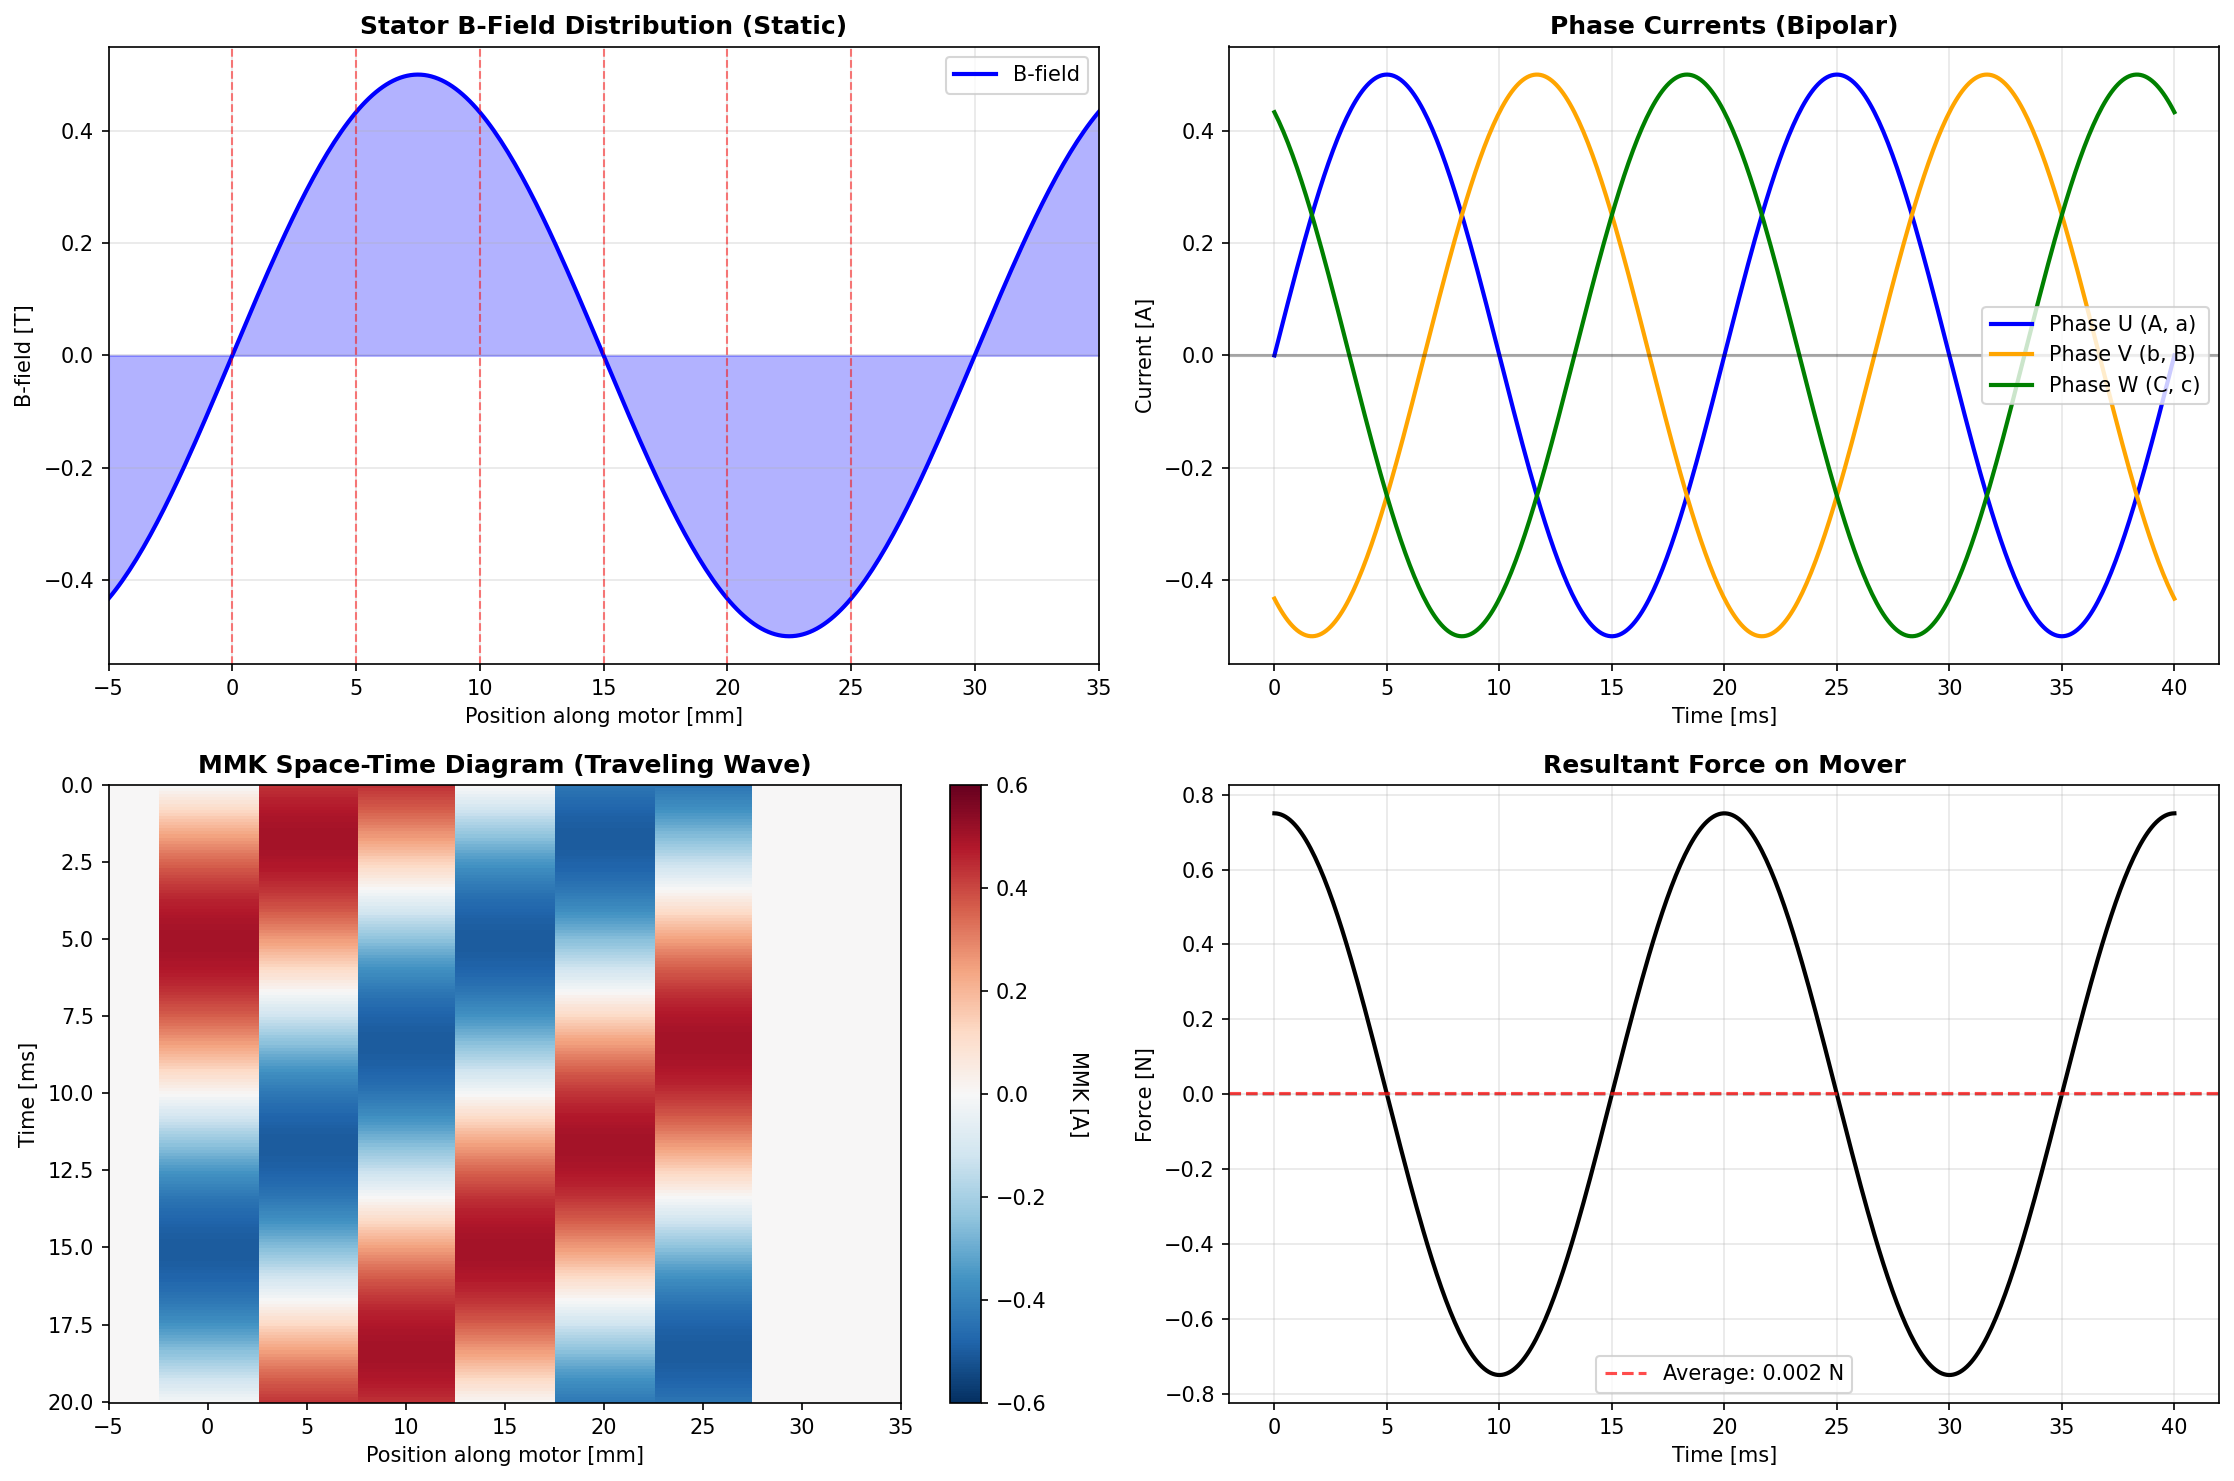
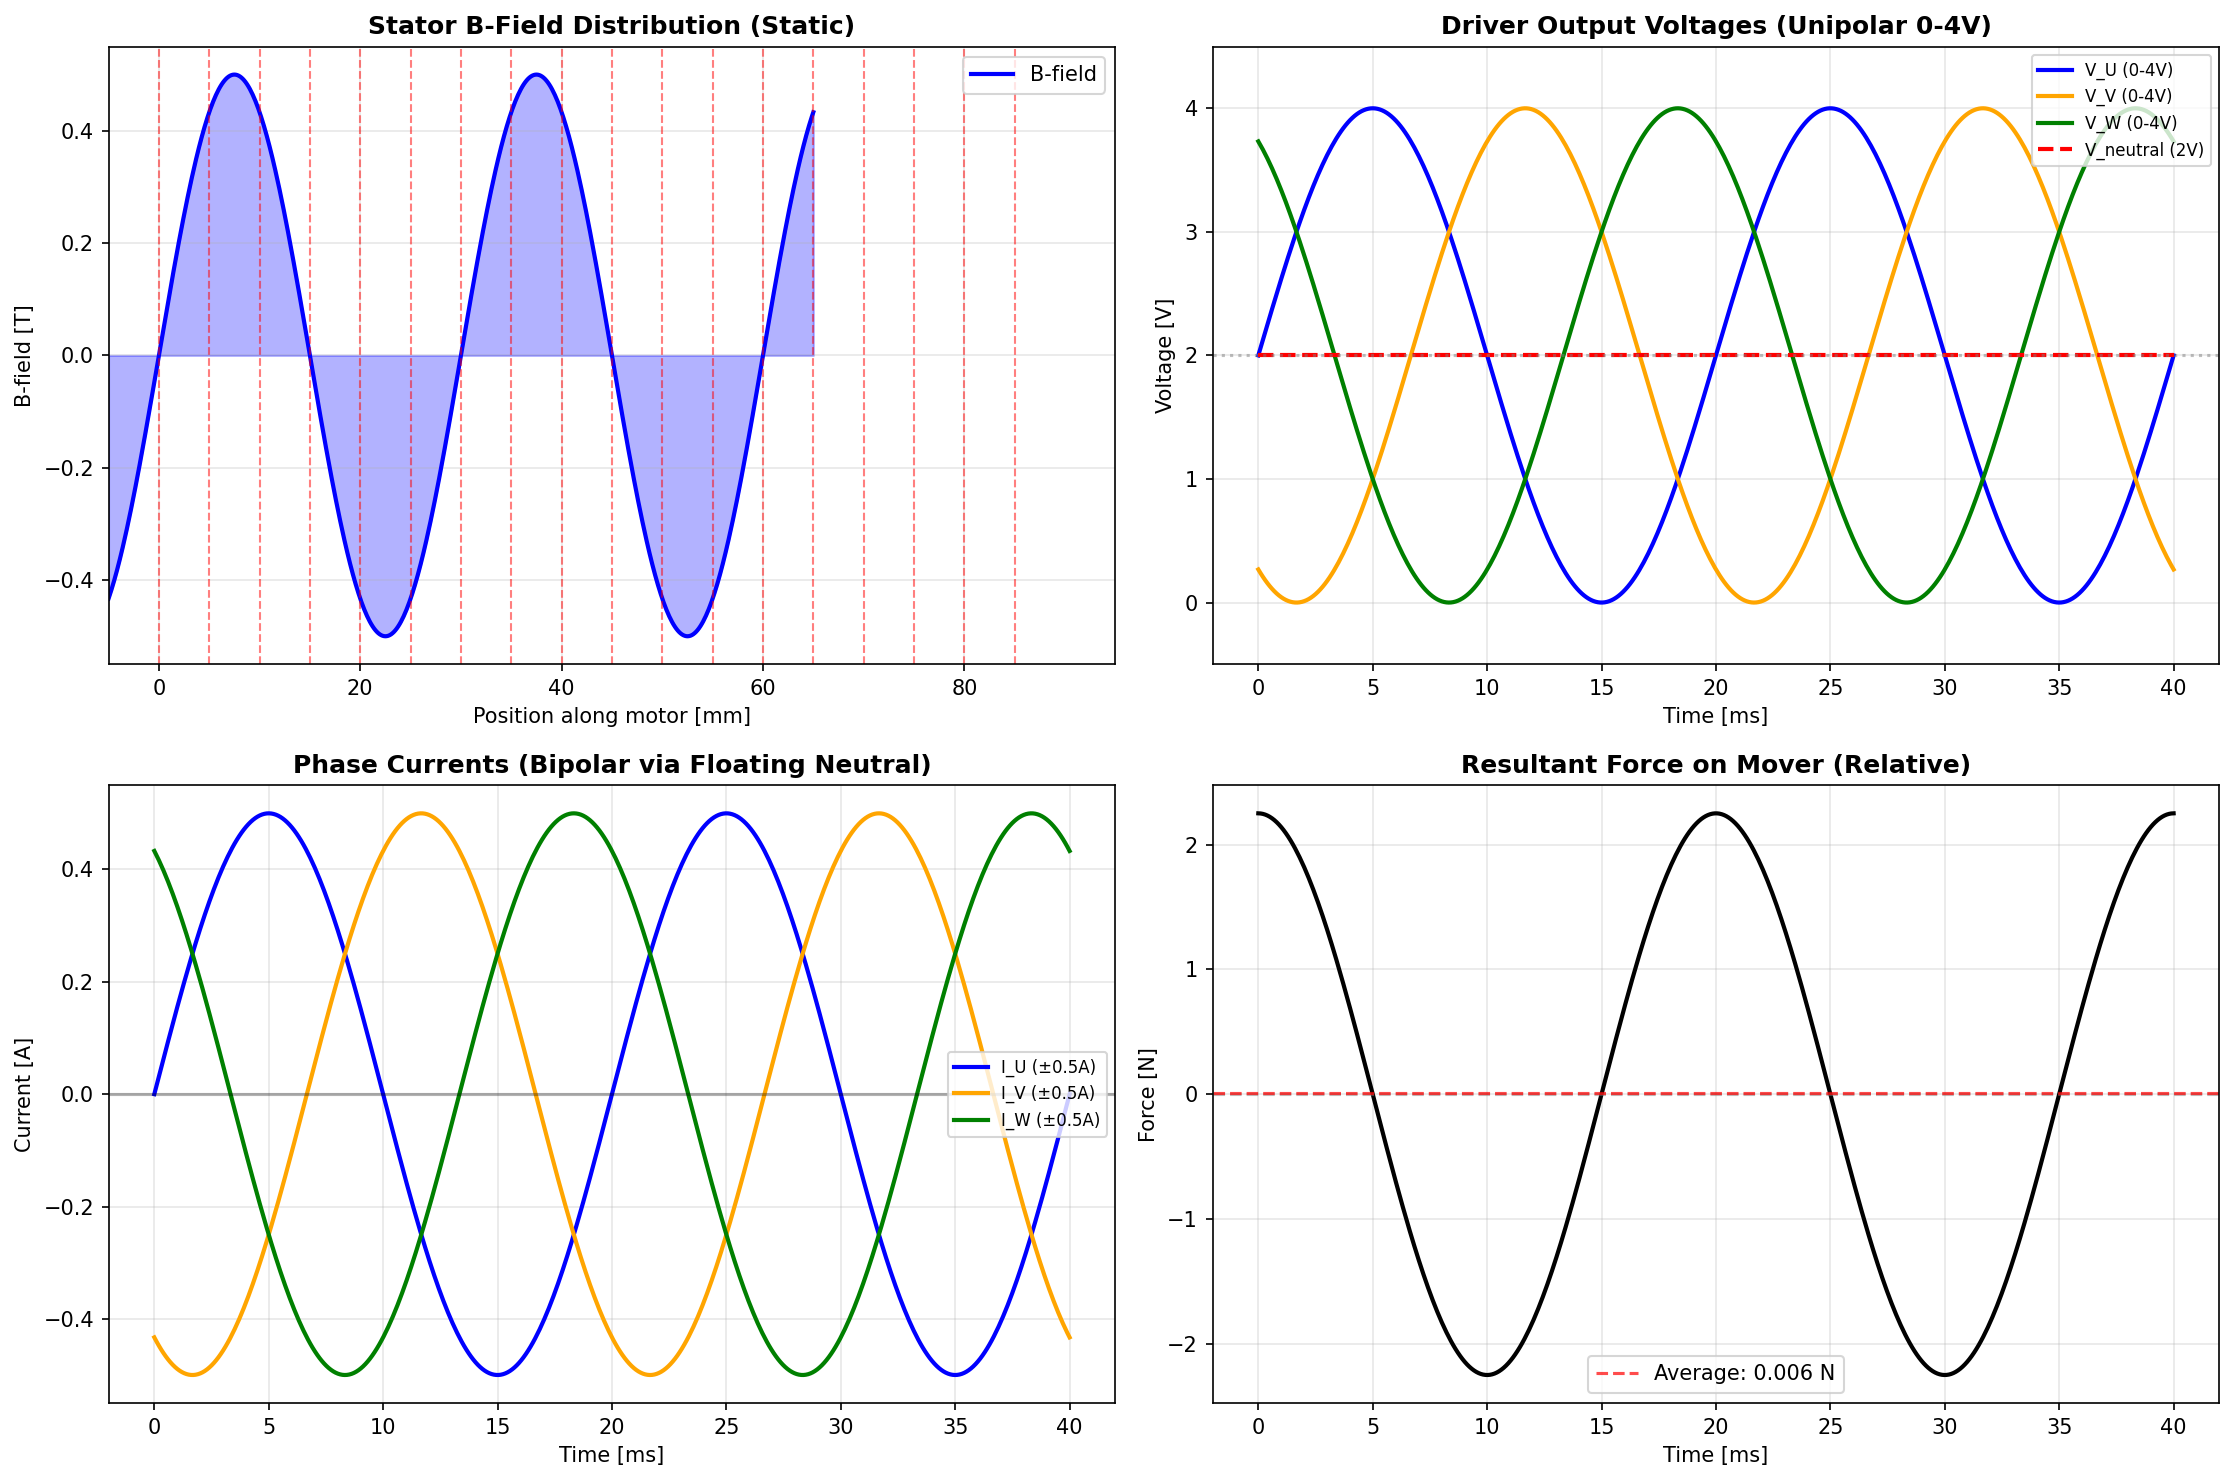
Add unipolar voltage plot to simulation — clarify floating neutral mechanism
Updated linear_motor_correct_physics.py to show the complete
signal chain:

1. B-field distribution (spatial) with 18 coil positions
2. Driver Output Voltages (Unipolar 0-4V) — raw PWM from SimpleFOC
   Shows floating neutral at constant 2V (red dashed line)
3. Phase Currents (Bipolar ±0.5A) — created by (V_driver - V_neutral)/R
4. Resultant Force over time (relative values)

This clearly demonstrates how unipolar 0-4V PWM creates bipolar
currents through the floating neutral mechanism.

diff --git a/simulations/linear_motor_correct_physics.py b/simulations/linear_motor_correct_physics.py
@@ -162,41 +162,46 @@ def plot_linear_motor_overview(positions_mm, b_field, mmk_data, force, time,
     ax1.legend()
     ax1.grid(True, alpha=0.3)
     
-    # Plot 2: Phase Currents over time
+    # Plot 2: Input Voltages and Neutral (showing floating neutral mechanism)
     ax2 = axes[0, 1]
     omega = 2 * np.pi * 50
+    V_amp = 2.0
+    V_offset = 2.0
+    
+    # Unipolar 0-4V PWM output from driver
+    v_U = V_amp*np.sin(omega*time) + V_offset
+    v_V = V_amp*np.sin(omega*time - 2*np.pi/3) + V_offset
+    v_W = V_amp*np.sin(omega*time - 4*np.pi/3) + V_offset
+    v_n = (v_U + v_V + v_W) / 3  # Floating neutral
+    
+    ax2.plot(time*1000, v_U, 'b-', linewidth=2, label='V_U (0-4V)')
+    ax2.plot(time*1000, v_V, 'orange', linewidth=2, label='V_V (0-4V)')
+    ax2.plot(time*1000, v_W, 'g-', linewidth=2, label='V_W (0-4V)')
+    ax2.plot(time*1000, v_n, 'r--', linewidth=2, label='V_neutral (2V)')
+    ax2.axhline(y=2, color='gray', linestyle=':', alpha=0.5)
+    ax2.set_xlabel('Time [ms]')
+    ax2.set_ylabel('Voltage [V]')
+    ax2.set_title('Driver Output Voltages (Unipolar 0-4V)', fontsize=12, fontweight='bold')
+    ax2.legend(fontsize=8)
+    ax2.grid(True, alpha=0.3)
+    ax2.set_ylim(-0.5, 4.5)
+    
+    # Plot 3: Phase Currents (bipolar, created by floating neutral)
+    ax3 = axes[1, 0]
     R = 4.0
-    v_U = 2*np.sin(omega*time) + 2
-    v_V = 2*np.sin(omega*time - 2*np.pi/3) + 2
-    v_W = 2*np.sin(omega*time - 4*np.pi/3) + 2
-    v_n = (v_U + v_V + v_W) / 3
     i_U = (v_U - v_n) / R
     i_V = (v_V - v_n) / R
     i_W = (v_W - v_n) / R
     
-    ax2.plot(time*1000, i_U, 'b-', linewidth=2, label='Phase U (A, a)')
-    ax2.plot(time*1000, i_V, 'orange', linewidth=2, label='Phase V (b, B)')
-    ax2.plot(time*1000, i_W, 'g-', linewidth=2, label='Phase W (C, c)')
-    ax2.axhline(y=0, color='k', linestyle='-', alpha=0.3)
-    ax2.set_xlabel('Time [ms]')
-    ax2.set_ylabel('Current [A]')
-    ax2.set_title('Phase Currents (Bipolar)', fontsize=12, fontweight='bold')
-    ax2.legend()
-    ax2.grid(True, alpha=0.3)
-    
-    # Plot 3: Space-Time Diagram of MMK
-    ax3 = axes[1, 0]
-    # Show only first period for clarity
-    t_end_idx = len(time) // 2
-    im = ax3.imshow(mmk_data[:t_end_idx, :], aspect='auto', cmap='RdBu_r',
-                    extent=[positions_mm[0], positions_mm[-1], time[t_end_idx]*1000, 0],
-                    vmin=-0.6, vmax=0.6, interpolation='nearest')
-    ax3.set_xlabel('Position along motor [mm]')
-    ax3.set_ylabel('Time [ms]')
-    ax3.set_title('MMK Space-Time Diagram (Traveling Wave)', fontsize=12, fontweight='bold')
-    ax3.set_xlim(-5, max(coil_positions) + 10)
-    cbar = plt.colorbar(im, ax=ax3)
-    cbar.set_label('MMK [A]', rotation=270, labelpad=20)
+    ax3.plot(time*1000, i_U, 'b-', linewidth=2, label='I_U (±0.5A)')
+    ax3.plot(time*1000, i_V, 'orange', linewidth=2, label='I_V (±0.5A)')
+    ax3.plot(time*1000, i_W, 'g-', linewidth=2, label='I_W (±0.5A)')
+    ax3.axhline(y=0, color='k', linestyle='-', alpha=0.3)
+    ax3.set_xlabel('Time [ms]')
+    ax3.set_ylabel('Current [A]')
+    ax3.set_title('Phase Currents (Bipolar via Floating Neutral)', fontsize=12, fontweight='bold')
+    ax3.legend(fontsize=8)
+    ax3.grid(True, alpha=0.3)
     
     # Plot 4: Force over time
     ax4 = axes[1, 1]
@@ -204,7 +209,7 @@ def plot_linear_motor_overview(positions_mm, b_field, mmk_data, force, time,
     ax4.axhline(y=0, color='gray', linestyle='--', alpha=0.5)
     ax4.set_xlabel('Time [ms]')
     ax4.set_ylabel('Force [N]')
-    ax4.set_title('Resultant Force on Mover', fontsize=12, fontweight='bold')
+    ax4.set_title('Resultant Force on Mover (Relative)', fontsize=12, fontweight='bold')
     ax4.grid(True, alpha=0.3)
     # Add average force line
     avg_force = np.mean(force)

diff --git a/README.md b/README.md
@@ -67,7 +67,7 @@ This simulation demonstrates how unipolar 0-4V PWM voltages from a SimpleFOC dri
 Unlike a rotating motor where coils are angularly distributed, here the 6 coils are spaced **along the motor length** (0, 5, 10, 15, 20, 25 mm), each interacting with the **local** sinusoidal B-field from the stator magnets.
 
 ![Linear Motor Overview](simulations/images/linear_motor_overview.png)
-*Top-left: Static sinusoidal B-field from stator magnets (period = 30 mm pole pitch). Top-right: Bipolar phase currents (±0.5A). Bottom-left: Traveling MMK wave moving along motor length. Bottom-right: Resultant force on mover.*
+*Top-left: Static sinusoidal B-field from stator magnets (period = 30 mm pole pitch) with 18 coil positions marked. Top-right: **Unipolar 0-4V driver outputs** (3 phases) and **floating neutral voltage** (red dashed at 2V) — this is the raw PWM output from SimpleFOC. Bottom-left: **Bipolar ±0.5A phase currents** created by the floating neutral mechanism: I = (V_driver - V_neutral) / R. Bottom-right: Resultant force on mover (relative values).*
 
 ![Linear Motor Snapshots](simulations/images/linear_motor_snapshots.png)
 *MMK distribution (red bars) interacting with stator B-field (blue curve) at different electrical angles. Force = Σ(MMK × B) at each coil position (relative values shown). With FOC, the mover tracks the field to maintain continuous force.*
